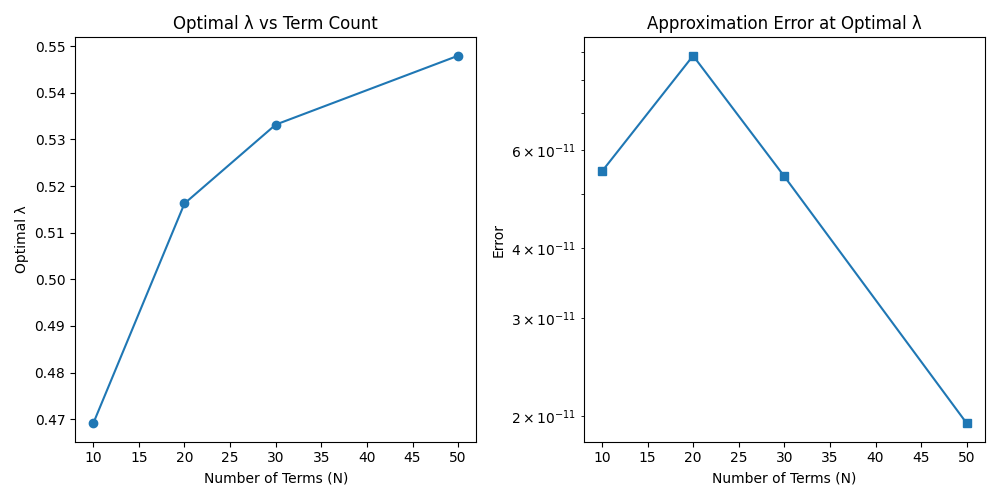
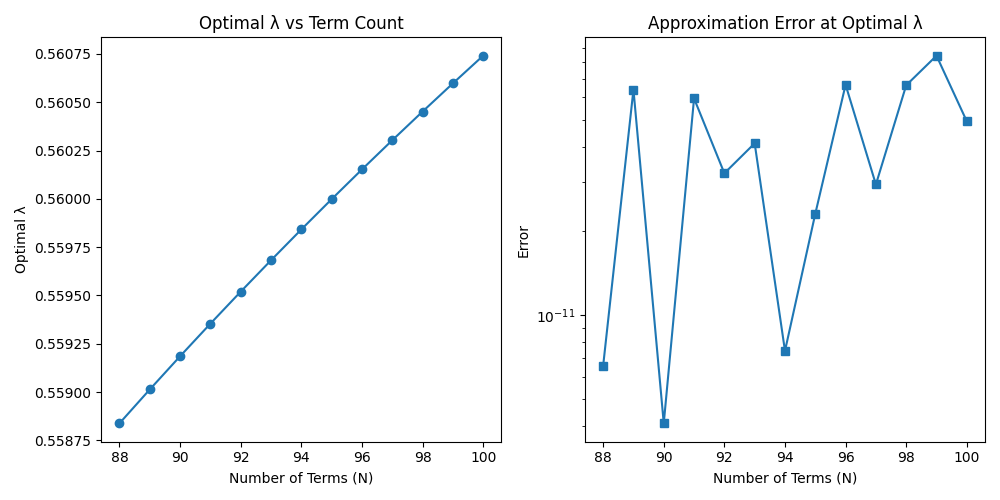
more floating points

diff --git a/python/src/script.py b/python/src/script.py
@@ -73,28 +73,6 @@ def Execute(Lambda, NTerms, Factorials):
     PI_approx = 4.0 + total_sum
     return PI_approx
 
-if __name__ == '__main__':
-    # Test parameters
-    test_lambdas = [0.5, 0.6, 0.7, 0.8, 0.9, 1.0]
-    test_terms = [5, 10, 20, 30]
-    
-    for lam in test_lambdas:
-        print(f"\nTesting λ = {lam}")
-        for n_terms in test_terms:
-            # Precompute factorials
-            fact_array = FactorialArray(n_terms)
-            
-            # Compute approximation
-            try:
-                pi_approx = Execute(lam, n_terms, fact_array)
-                error = abs(pi_approx - math.pi)
-                print(f"  N={n_terms}: Approx={pi_approx:.10f}, Error={error:.2e}")
-            except Exception as e:
-                print(f"  N={n_terms}: Failed ({str(e)})")
-
-    # Recommended parameters
-    print("\nRecommended parameters: λ=0.5-1.0 with N=20-30 terms")
-
     
 def find_optimal_lambda(N, lambda_low=0.1, lambda_high=1.0, tol=1e-10):
     """
@@ -138,7 +116,7 @@ def find_optimal_lambda(N, lambda_low=0.1, lambda_high=1.0, tol=1e-10):
 
 # Test optimization for different term counts
 if __name__ == '__main__':
-    term_counts = [10, 20, 30, 50]
+    term_counts = [88, 89, 90, 91, 92, 93, 94, 95, 96, 97, 98, 99, 100]
     results = {}
     
     for N in term_counts:
